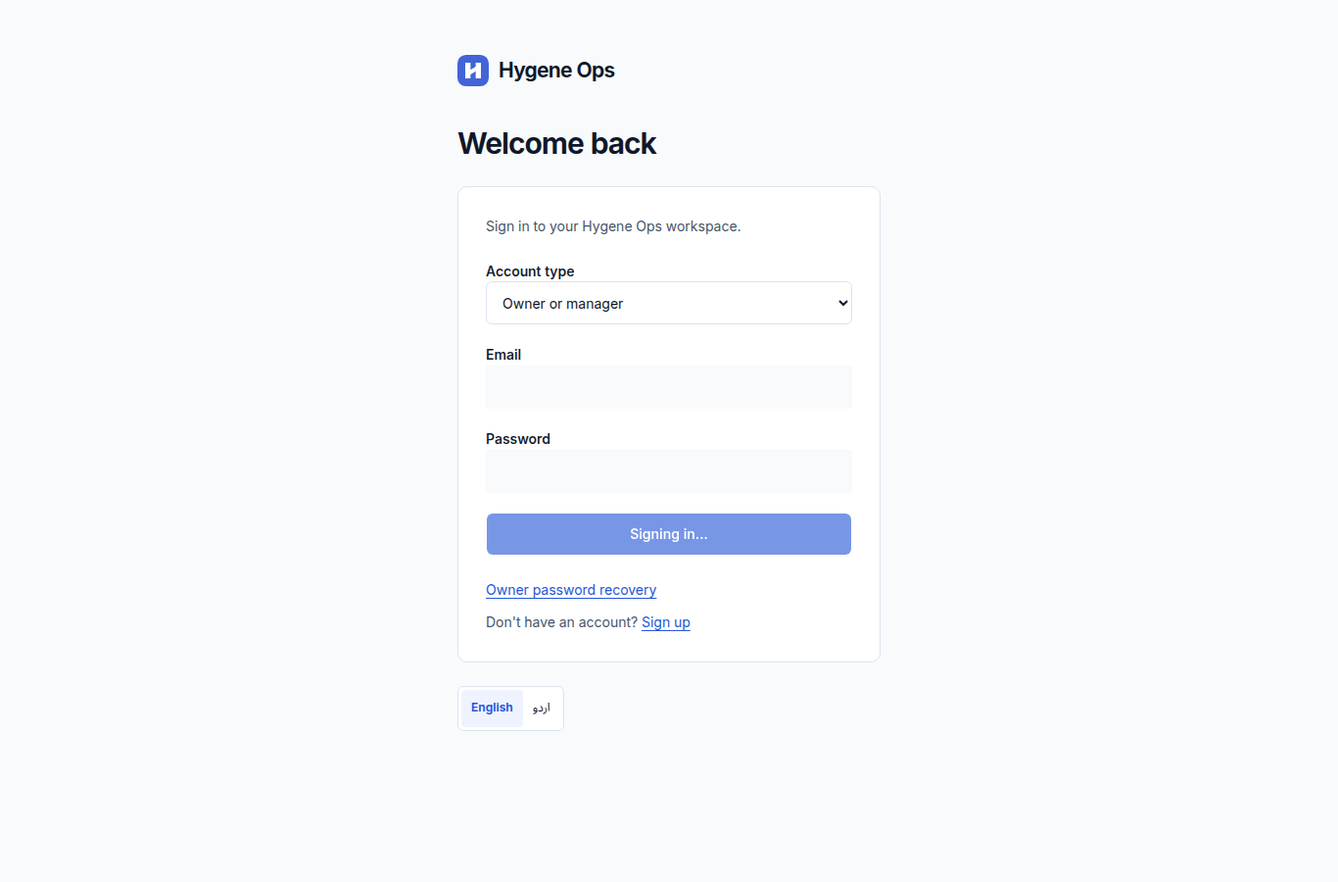
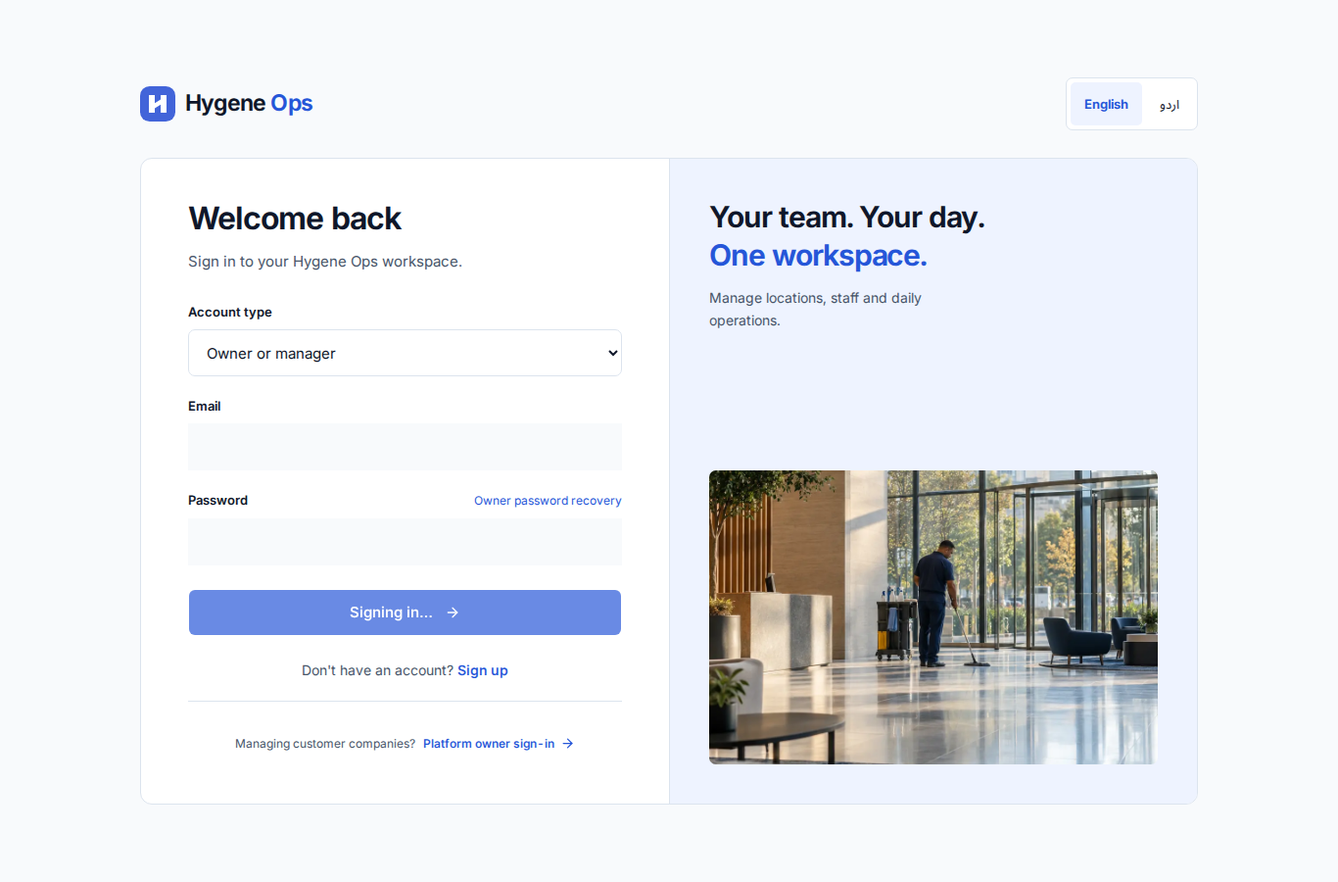
style(auth): polish company login and clarify platform sign-in

diff --git a/frontend/src/pages/Login/login.css b/frontend/src/pages/Login/login.css
@@ -1,0 +1,73 @@
+/* Company sign-in only. Other AuthShell journeys keep their existing layout. */
+.workspace.v5-auth-page.v5-auth-split { display:flex; align-items:center; min-height:100dvh; padding:32px; }
+.v5-auth-split .v5-auth { max-width:1080px; padding:0; }
+.v5-auth-split .v5-auth-split-header { display:flex; align-items:center; justify-content:space-between; gap:24px; margin-block-end:28px; }
+.v5-auth-split .v5-auth-brand,.v5-auth-split .v5-auth-language { margin:0; }
+.v5-auth-split .v5-auth-brand .hygene-mark { width:36px; height:36px; }
+.v5-auth-split .v5-auth-brand .hygene-wordmark { font-size:23px; }
+.v5-auth-split .v5-auth-brand .hygene-wordmark>span { color:var(--primary); }
+.v5-auth-split .language-choice { border:1px solid var(--border); border-radius:7px; padding:4px; gap:4px; }
+.v5-auth-split .language-choice>svg { display:none; }
+.v5-auth-split .language-choice button { min-height:44px; padding-inline:14px; border-radius:5px; font-size:13px; }
+.v5-auth-split .v5-auth-split-body { display:grid; grid-template-columns:1fr 1fr; min-width:0; overflow:hidden; border:1px solid var(--border); border-radius:12px; background:var(--card); }
+.v5-auth-split .v5-auth-split-form { min-width:0; padding:40px 48px; }
+.v5-auth-split .v5-auth h1 { margin-block-end:12px; font-size:32px; line-height:1.3; }
+.v5-auth-split .v5-auth-panel { border:0; border-radius:0; padding:0; background:transparent; }
+.v5-auth-split .v5-auth-description { margin-block-end:28px; font-size:15px; }
+.v5-auth-split .v5-auth-panel form { gap:20px; }
+.v5-auth-split .v5-auth-panel label { margin-block-end:8px; font-size:13px; font-weight:600; }
+.v5-auth-split .v5-auth-panel :is(input,select) { min-height:48px; padding:12px 14px; border-radius:7px; font-size:15px; color:var(--foreground); background:var(--card); caret-color:var(--primary); }
+.v5-auth-split .v5-auth-panel input::placeholder { color:var(--muted-foreground); opacity:1; }
+.v5-auth-split .v5-auth-panel [aria-invalid="true"] { border-color:var(--danger-ink); }
+.v5-auth-split .v5-auth-panel input:-webkit-autofill { -webkit-text-fill-color:var(--foreground); -webkit-box-shadow:0 0 0 1000px var(--accent) inset; }
+.v5-auth-split .login-password-label { display:flex; align-items:baseline; justify-content:space-between; gap:8px 16px; flex-wrap:wrap; margin-block-end:8px; }
+.v5-auth-split .login-password-label label { margin:0; }
+.v5-auth-split .login-password-label a { color:var(--primary); font-size:12px; text-decoration:none; text-underline-offset:3px; }
+.v5-auth-split .login-password-control { position:relative; }
+.v5-auth-split .login-password-control input { padding-inline-end:52px; }
+.v5-auth-split .login-password-toggle { position:absolute; inset-inline-end:3px; inset-block-start:2px; width:44px; height:44px; padding:0; color:var(--muted-foreground); border-radius:5px; }
+.v5-auth-split .v5-auth-panel button[type="submit"] { justify-content:center; gap:12px; min-height:48px; margin-block-start:4px; font-size:15px; }
+.v5-auth-split .login-error { display:flex; align-items:flex-start; gap:10px; padding:12px 14px; background:var(--danger-fill); border:1px solid var(--danger-ink); border-radius:7px; }
+.v5-auth-split .login-error>svg { flex-shrink:0; margin-block-start:2px; }
+.v5-auth-split .login-error p { margin:0; }
+.v5-auth-split .v5-auth-panel form>div>p[role="alert"] { margin-block-start:8px; }
+.v5-auth-split .v5-auth-footer { display:grid; gap:20px; margin-block-start:24px; text-align:center; }
+.v5-auth-split .v5-auth-footer a { font-weight:550; text-decoration:none; }
+.v5-auth-split .login-platform-link { display:flex; justify-content:center; align-items:center; flex-wrap:wrap; gap:4px 8px; padding-block-start:20px; border-block-start:1px solid var(--border); font-size:12px; }
+.v5-auth-split .login-platform-link a { display:inline-flex; align-items:center; gap:6px; min-height:44px; }
+.v5-auth-split .login-intro { display:flex; flex-direction:column; justify-content:space-between; gap:28px; min-width:0; padding:40px; background:var(--accent); border-inline-start:1px solid var(--border); }
+.v5-auth-split .login-intro h2 { margin:0; font-size:30px; line-height:1.3; letter-spacing:-.035em; font-weight:650; text-wrap:balance; }
+.v5-auth-split .login-intro h2 span { color:var(--primary); }
+.v5-auth-split .login-intro p { max-width:32ch; margin-block-start:12px; color:var(--muted-foreground); font-size:14px; line-height:1.65; }
+.v5-auth-split .login-intro img { display:block; width:100%; height:300px; min-height:240px; object-fit:cover; object-position:center 58%; border-radius:7px; }
+.v5-auth-split :focus-visible { outline:2px solid var(--primary); outline-offset:3px; }
+.v5-auth-split ::selection { background:var(--primary); color:var(--primary-foreground); }
+[dir="rtl"] .v5-auth-split :is(button[type="submit"],.login-platform-link a)>svg { transform:rotate(180deg); }
+@media(hover:hover) {
+ .v5-auth-split :is(.login-password-label,.v5-auth-footer) a:hover { text-decoration:underline; }
+}
+@media(max-width:1000px) {
+ .v5-auth-split .v5-auth-split-form { padding:36px 32px; }
+ .v5-auth-split .login-intro { padding:36px 28px; }
+ .v5-auth-split .login-intro h2 { font-size:27px; }
+}
+@media(max-width:800px) {
+ .workspace.v5-auth-page.v5-auth-split { padding:28px 24px; }
+ .v5-auth-split .v5-auth { max-width:480px; }
+ .v5-auth-split .v5-auth-split-body { grid-template-columns:minmax(0,1fr); }
+ .v5-auth-split .login-intro { display:none; }
+}
+@media(max-width:480px) {
+ .workspace.v5-auth-page.v5-auth-split { padding:24px 16px; align-items:flex-start; }
+ .v5-auth-split .v5-auth-split-header { gap:12px; margin-block-end:28px; }
+ .v5-auth-split .v5-auth-brand .hygene-mark { width:32px; height:32px; }
+ .v5-auth-split .v5-auth-brand .hygene-wordmark { font-size:20px; }
+ .v5-auth-split .language-choice { padding:2px; gap:0; }
+ .v5-auth-split .language-choice button { min-height:44px; padding-inline:10px; font-size:12px; }
+ .v5-auth-split .v5-auth-split-form { padding:28px 24px; }
+ .v5-auth-split .v5-auth h1 { font-size:28px; }
+ .v5-auth-split .v5-auth-description { font-size:14px; }
+ .v5-auth-split .v5-auth-panel :is(input,select) { font-size:16px; }
+ .v5-auth-split .login-password-label a { min-height:44px; display:inline-flex; align-items:center; }
+ .v5-auth-split .login-platform-link { font-size:13px; }
+}

diff --git a/frontend/src/pages/Login/LoginPage.tsx b/frontend/src/pages/Login/LoginPage.tsx
@@ -7,28 +7,34 @@ import {useLanguage} from '@/i18n/context';
 import AuthShell from '@/components/common/AuthShell';
 import {Button} from '@/components/ui/button';
 import {Input} from '@/components/ui/input';
+import {AlertCircle,ArrowRight,Eye,EyeOff} from 'lucide-react';
+import cleaningTeam from '@/assets/auth-cleaning-team.webp';
+import './login.css';
 
 export default function Login() {
  const {t}=useLanguage(),location=useLocation();
  const {register,handleSubmit,reset,formState:{errors}}=useForm<LoginForm>({defaultValues:{role:'Manager'}});
- const [error,setError]=useState('');const login=useLogin();
+ const [error,setError]=useState(''),[showPassword,setShowPassword]=useState(false);const login=useLogin();
  function submit(data:LoginForm){
   setError('');login.mutate(data,{onSuccess:()=>reset(),onError:(failure:unknown)=>{
    const status=(failure as {response?:{status?:number}}).response?.status;
    setError(status===400||status===401?'Email or password is incorrect.':status===429?'Too many sign-in attempts. Try again shortly.':status===403?'Sign-in is unavailable for this account. Contact your company owner.':'Sign-in could not finish. Check your connection and try again.');
   }});
  }
- return <AuthShell title={t('Welcome back')} subtitle={t('Sign in to your Hygene Ops workspace.')} footer={<>
-  <Link to="/recover-owner-account">{t('Owner password recovery')}</Link>
+ return <AuthShell title={t('Welcome back')} subtitle={t('Sign in to your Hygene Ops workspace.')} aside={<aside className="login-intro" aria-label={t('About Hygene Ops')}>
+  <div><h2>{t('Your team. Your day.')}<br/><span>{t('One workspace.')}</span></h2><p>{t('Manage locations, staff and daily operations.')}</p></div>
+  <img src={cleaningTeam} width={1024} height={1536} alt="" decoding="async"/>
+ </aside>} footer={<>
   <p>{t("Don't have an account?")} <Link to="/signup">{t('Sign up')}</Link></p>
+  <p className="login-platform-link"><span>{t('Managing customer companies?')}</span><Link to="/platform/login">{t('Platform owner sign-in')}<ArrowRight size={15} aria-hidden="true"/></Link></p>
  </>}>
   {location.state?.securityCompleted&&<p role="status">{t('Security details updated. Sign in again to continue.')}</p>}
   <form onSubmit={handleSubmit(submit)} aria-busy={login.isPending}>
    <div><label htmlFor="role">{t('Account type')}</label><select id="role" {...register('role',{required:'Please select a role'})} disabled={login.isPending}><option value="Manager">{t('Owner or manager')}</option><option value="Staff">{t('Staff')}</option></select></div>
    <div><label htmlFor="email">{t('Email')}</label><Input id="email" type="email" dir="ltr" autoComplete="email" placeholder="you@example.com" aria-invalid={!!errors.email} aria-describedby={errors.email?'email-error':undefined} {...register('email',{required:'Email is required'})}/>{errors.email&&<p id="email-error" role="alert">{t(errors.email.message??'Email is required')}</p>}</div>
-   <div><label htmlFor="password">{t('Password')}</label><Input id="password" type="password" dir="ltr" autoComplete="current-password" aria-invalid={!!errors.password} aria-describedby={errors.password?'password-error':undefined} {...register('password',{required:'Password is required'})}/>{errors.password&&<p id="password-error" role="alert">{t(errors.password.message??'Password is required')}</p>}</div>
-   {error&&<p role="alert">{t(error)}</p>}
-   <Button type="submit" disabled={login.isPending}>{t(login.isPending?'Signing in…':'Sign in')}</Button>
+   <div><div className="login-password-label"><label htmlFor="password">{t('Password')}</label><Link to="/recover-owner-account">{t('Owner password recovery')}</Link></div><div className="login-password-control" dir="ltr"><Input id="password" type={showPassword?'text':'password'} dir="ltr" autoComplete="current-password" aria-invalid={!!errors.password} aria-describedby={errors.password?'password-error':undefined} {...register('password',{required:'Password is required'})}/><Button type="button" variant="ghost" className="login-password-toggle" aria-label={t(showPassword?'Hide password':'Show password')} aria-pressed={showPassword} onClick={()=>setShowPassword(!showPassword)}>{showPassword?<EyeOff size={18} aria-hidden="true"/>:<Eye size={18} aria-hidden="true"/>}</Button></div>{errors.password&&<p id="password-error" role="alert">{t(errors.password.message??'Password is required')}</p>}</div>
+   {error&&<div className="login-error" role="alert"><AlertCircle size={18} aria-hidden="true"/><p>{t(error)}</p></div>}
+   <Button type="submit" disabled={login.isPending}>{t(login.isPending?'Signing in…':'Sign in')}<ArrowRight size={17} aria-hidden="true"/></Button>
   </form>
  </AuthShell>;
 }

diff --git a/frontend/e2e/customer-auth-v5.spec.ts b/frontend/e2e/customer-auth-v5.spec.ts
@@ -18,7 +18,11 @@ test('V5 customer auth pages render at matching desktop/phone English/Urdu sizes
    await page.goto(path);await expect(page.locator('.v5-auth h1')).toBeVisible();await page.evaluate(()=>document.fonts.ready);
    await page.screenshot({path:join(out,`app-${name}-${width}-${lang}.png`),fullPage:true});
    const geometry=await page.evaluate(()=>{const brand=document.querySelector('.v5-auth-brand')!.getBoundingClientRect(),title=document.querySelector('.v5-auth h1')!.getBoundingClientRect();return {brandToTitle:title.y-brand.bottom};});
-   expect(geometry.brandToTitle).toBeGreaterThanOrEqual(39);expect(geometry.brandToTitle).toBeLessThanOrEqual(41);
+   if(name==='login'){
+    expect(geometry.brandToTitle).toBeGreaterThan(0);
+    await expect(page.locator('.login-intro')).toBeVisible({visible:width>800});
+    await expect(page.getByRole('link',{name:lang==='ur'?'پلیٹ فارم مالک کا داخلہ':'Platform owner sign-in',exact:true})).toHaveAttribute('href','/platform/login');
+   }else{expect(geometry.brandToTitle).toBeGreaterThanOrEqual(39);expect(geometry.brandToTitle).toBeLessThanOrEqual(41);}
    const overflow=await page.evaluate(()=>document.documentElement.scrollWidth>innerWidth+1);results.push({name,path,prototype,width,lang,geometry,overflow,errors:[...errors]});expect(overflow).toBe(false);expect(errors).toEqual([]);errors.length=0;
    await expect(page.locator('.language-choice')).toHaveCount(1);await expect(page.locator('.auth-preview')).toHaveCount(0);
    const reference=await context.newPage();await reference.goto('file://'+join(root,`design/v5/${prototype}.html`)+`?lang=${lang}${name.endsWith('missing')?'&link=expired':''}`);await reference.evaluate(()=>document.fonts.ready);await reference.screenshot({path:join(out,`v5-${name}-${width}-${lang}.png`),fullPage:true});await reference.close();
@@ -66,6 +70,8 @@ test('actual owner recovery explains unavailable delivery without claiming a sen
 });
 test('real rejected sign-in remains on the form and permits a corrected retry',async({page})=>{
  await page.setViewportSize({width:1366,height:900});await page.goto('/login');await page.getByLabel('Email',{exact:true}).fill('no-account@example.invalid');await page.getByLabel('Password',{exact:true}).fill(randomBytes(20).toString('hex'));
+ await page.getByRole('button',{name:'Show password',exact:true}).click();await expect(page.getByLabel('Password',{exact:true})).toHaveAttribute('type','text');
+ await page.getByRole('button',{name:'Hide password',exact:true}).click();await expect(page.getByLabel('Password',{exact:true})).toHaveAttribute('type','password');
  await page.getByRole('button',{name:'Sign in',exact:true}).click();await expect(page.getByRole('alert')).toContainText('Email or password is incorrect.');await expect(page).toHaveURL(/login/);
  await page.getByLabel('Password',{exact:true}).clear();await page.screenshot({path:join(out,'app-login-denied-1366-en.png'),fullPage:true});
 });

diff --git a/frontend/src/pages/Login/LoginPage.test.tsx b/frontend/src/pages/Login/LoginPage.test.tsx
@@ -47,3 +47,27 @@ it('keeps registration session-delivery failure unauthenticated with an accurate
 it('translates registration fields and validation using the shared public shell',async()=>{
  mount(<SignUp/>,{language:'ur',path:'/signup'});expect(screen.getByRole('heading',{name:'اپنا ورک اسپیس بنائیں'})).toBeInTheDocument();fireEvent.click(screen.getByRole('button',{name:'اکاؤنٹ بنائیں اور پلان چنیں'}));await screen.findByText('نام ضروری ہے');expect(screen.getByLabelText('پورا نام')).toHaveAttribute('aria-invalid','true');expect(screen.getByRole('link',{name:'Hygene Ops میں سائن ان کریں'})).toHaveAttribute('href','/login');expect(screen.getAllByRole('group',{name:'زبان'})).toHaveLength(1);
 });
+
+it('reveals and hides the existing password without submitting or changing credentials',()=>{
+ mount(<Login/>);const password=screen.getByLabelText('Password');
+ fireEvent.change(password,{target:{value:'Synthetic test password'}});
+ expect(password).toHaveAttribute('type','password');
+ fireEvent.click(screen.getByRole('button',{name:'Show password'}));
+ expect(password).toHaveAttribute('type','text');expect(password).toHaveValue('Synthetic test password');
+ expect(screen.getByRole('button',{name:'Hide password'})).toHaveAttribute('aria-pressed','true');
+ fireEvent.click(screen.getByRole('button',{name:'Hide password'}));
+ expect(password).toHaveAttribute('type','password');expect(api.post).not.toHaveBeenCalled();
+ expect(screen.getByRole('link',{name:'Platform owner sign-in'})).toHaveAttribute('href','/platform/login');
+ expect(screen.getByRole('link',{name:'Owner password recovery'})).toHaveAttribute('href','/recover-owner-account');
+ expect(screen.getAllByRole('group',{name:'Language'})).toHaveLength(1);
+});
+
+it('translates the split login, platform link and password visibility for Urdu',()=>{
+ mount(<Login/>,{language:'ur'});
+ expect(screen.getByRole('heading',{name:'خوش آمدید'})).toBeInTheDocument();
+ expect(screen.getByRole('link',{name:'پلیٹ فارم مالک کا داخلہ'})).toHaveAttribute('href','/platform/login');
+ fireEvent.click(screen.getByRole('button',{name:'پاس ورڈ دکھائیں'}));
+ expect(screen.getByLabelText('پاس ورڈ')).toHaveAttribute('type','text');
+ expect(screen.getByRole('button',{name:'پاس ورڈ چھپائیں'})).toBeInTheDocument();
+ expect(document.documentElement.dir).toBe('rtl');
+});

diff --git a/frontend/src/components/common/AuthShell.tsx b/frontend/src/components/common/AuthShell.tsx
@@ -8,22 +8,25 @@ import '@/workspace-refresh.css';
 import './auth.css';
 
 // The approved gallery's public journeys share this centered real form surface.
-export default function AuthShell({title,subtitle,children,footer}:{
- title:string;subtitle:string;children:ReactNode;footer:ReactNode;
+export default function AuthShell({title,subtitle,children,footer,aside}:{
+ title:string;subtitle:string;children:ReactNode;footer:ReactNode;aside?:ReactNode;
 }) {
  const {t}=useLanguage();
  useEffect(()=>{document.title=`${title} | Hygene Ops`;},[title]);
- return <div className="workspace v5-auth-page">
+ const brand=<Link to="/login" className="v5-auth-brand" aria-label={t('Hygene Ops sign in')}><BrandLogo/></Link>;
+ const language=<div className="v5-auth-language"><LanguageChoice/></div>;
+ const content=<><h1>{title}</h1><section className="v5-auth-panel" aria-label={title}>
+  <p className="v5-auth-description">{subtitle}</p>
+  {children}
+  <div className="v5-auth-footer">{footer}</div>
+ </section></>;
+ return <div className={`workspace v5-auth-page${aside?' v5-auth-split':''}`}>
   <a className="v5-auth-skip" href="#auth-content">{t('Skip to content')}</a>
   <main className="v5-auth" id="auth-content" tabIndex={-1}>
-   <Link to="/login" className="v5-auth-brand" aria-label={t('Hygene Ops sign in')}><BrandLogo/></Link>
-   <h1>{title}</h1>
-   <section className="v5-auth-panel" aria-label={title}>
-    <p className="v5-auth-description">{subtitle}</p>
-    {children}
-    <div className="v5-auth-footer">{footer}</div>
-   </section>
-   <div className="v5-auth-language"><LanguageChoice/></div>
+   {aside?<>
+    <header className="v5-auth-split-header">{brand}{language}</header>
+    <div className="v5-auth-split-body"><div className="v5-auth-split-form">{content}</div>{aside}</div>
+   </>:<>{brand}{content}{language}</>}
   </main>
  </div>;
 }

diff --git a/frontend/src/i18n/accountTranslations.ts b/frontend/src/i18n/accountTranslations.ts
@@ -1,4 +1,12 @@
 export const accountUrdu: Record<string, string> = {
+ 'About Hygene Ops':'Hygene Ops کے بارے میں',
+ 'Your team. Your day.':'آپ کی ٹیم۔ آپ کا دن۔',
+ 'One workspace.':'ایک ورک اسپیس۔',
+ 'Manage locations, staff and daily operations.':'مقامات، عملے اور روزمرہ کے کاموں کا انتظام کریں۔',
+ 'Managing customer companies?':'کسٹمر کمپنیوں کا انتظام کرنا ہے؟',
+ 'Platform owner sign-in':'پلیٹ فارم مالک کا داخلہ',
+ 'Show password':'پاس ورڈ دکھائیں',
+ 'Hide password':'پاس ورڈ چھپائیں',
  'Hygene Ops sign in': 'Hygene Ops میں سائن ان کریں',
  'Skip to content': 'اصل مواد پر جائیں',
  'Welcome back': 'خوش آمدید',

diff --git a/docs/implementation/LOGIN_UI_POLISH.md b/docs/implementation/LOGIN_UI_POLISH.md
@@ -1,0 +1,67 @@
+# Company login polish — 31 October 2026
+
+The user requests improving the company login shown in their screenshot. Work
+is limited to presentation and form usability, preserving approved blue/white
+tokens and existing owner/manager/staff authentication requests and destinations.
+This is a single-session UI refinement, not a new numbered feature specification.
+
+## Changes
+
+- Optional `aside` presentation slot in the existing AuthShell. Only company
+  Login supplies it; signup, recovery and operator forms retain the default shell.
+- A balanced desktop form and illustrated side panel using the existing bundled
+  `auth-cleaning-team.webp`, with the form prioritized on phones/tablets. The
+  image is decorative; no fabricated customer or workforce statistics are shown.
+- Clear brand/language header, consistent fields and primary action, visible
+  focus, structured error feedback and English/Urdu/RTL labels.
+- Password visibility uses a type=button toggle, preserves the current value and
+  never submits the form or stores credentials. Existing API errors and pending
+  submission behavior remain authoritative.
+- Password recovery remains available; a separate platform-owner sign-in link
+  explains the correct destination for product-owner credentials. The screenshot
+  showed a platform identity entered into the company login. No account or
+  permission is changed to make that identity work as a company administrator.
+
+## Verification
+
+59 focused login/operator/account component tests passed; full frontend407 React
+and64 Node tests passed. Both company account types still use their original
+endpoints and existing shared default AuthShell flows remain covered. Two added
+unit cases check password visibility without submission, preserved values,
+platform/recovery destinations, one language selector and Urdu behavior.
+
+Commands: direct `vitest run --maxWorkers=1` (focused and full); `npm run test:unit`.
+Heavy checks ran sequentially at nice15 with one worker. Touched ESLint and
+`VITE_LOCAL_PLATFORM_LOGIN=true nice -n 15 npm run build` passed. The Impeccable
+mechanical scan of LoginPage, login.css and AuthShell returned no findings.
+
+The existing isolated browser harness passed three real SQL/API/Chromium cases:
+rejected sign-in and visibility toggle, actual staff login/handoff/logout, and
+pending owner sign-in with duplicate submission disabled and dashboard arrival.
+Command: `HYGENE_E2E_DATABASE_URL=postgresql://shumail@127.0.0.1:56443/priv_e2e_test nice -n 15 node frontend/e2e/run.mjs customer-auth-v5.spec.ts --grep 'real rejected|actual staff|actual sign-in pending'`.
+This also passed backend/browser/frontend TypeScript and an isolated frontend
+build. Zero generated child DBs remained; the owned test cluster was stopped.
+The full original visual journey case was updated for the explicitly changed
+login geometry but was not run in this focused check.
+
+Actual local frontend was rebuilt/restarted. Eight desktop/tablet/phone/small-phone
+observations at1366/768/390/320x900 EN/UR passed: no horizontal overflow or browser
+errors, single language control, correct aside visibility, password toggle,
+required-field feedback and keyboard navigation to platform sign-in. Four actual
+API401denial states were captured after emptying credentials. Twelve captures and
+results remain outside Git at `~/.local/share/hygene-ops/local-development/login-ui-polish-20261031/`.
+Inspected against existing approved blue/white tokens and current V5 composition;
+the user-requested desktop split is intentional, with default shared auth layouts
+preserved. Only two updated synthetic/masked browser screenshots are committed.
+
+## Files and scope
+
+`frontend/src/pages/Login/{LoginPage.tsx,login.css,LoginPage.test.tsx}`;
+`frontend/src/components/common/AuthShell.tsx`;
+`frontend/src/i18n/accountTranslations.ts`; existing customer-auth browser tests.
+
+Worktree `/home/shumail/.local/share/hygene-ops/v5-import-20261031`, branch
+`ui/company-login-polish`, based on company overview `1aa4cce`/draft113. Original
+root changes, the untracked frozen design directory and other worktrees remain
+preserved. No backend, schema, billing, platform authorization or original V5
+specification status changes. No merge or deployment.

diff --git a/specs/PROGRESS.md b/specs/PROGRESS.md
@@ -2,6 +2,13 @@
 
 Source of truth for execution; latest user authorization supersedes old pending labels. Approved v5 preserved.
 
+**Latest login refinement — 2026-10-31:** `/login` now has a responsive blue/white
+split layout, password visibility and separate platform-owner sign-in link.
+Default shared auth layouts and authentication payloads remain unchanged.
+59focused,407React+64Node, lint/build,3isolated actual browser cases and8local
+EN/UR visual observations passed. Details: [LOGIN_UI_POLISH.md](../docs/implementation/LOGIN_UI_POLISH.md).
+Branch `ui/company-login-polish`; original spec statuses unchanged.
+
 **Latest focused refinement — 2026-10-31:** company list/details now expose real
 active manager/staff/location counts (owners excluded from managers). Inquiries,
 Service diagnostics and Administrative audit are temporarily hidden by navigation
@@ -314,3 +321,5 @@ PLATFORM_OIDCinputs and loads no root secrets.23other worktrees/799dirtypaths
 - **2026-10-31 — Spec43 complete locally:** separate provisioned local platform-owner email/password, private bcrypt credential store, opaque platform cookie, strict loopback/development/origin/database gates, throttling/expiry/logout and existing metadata pages wired. Full1490backend/7existing skips,64Node+399React,1isolated browser plus actual provisioned local owner login pass. Credentials stay outside Git. Original six V5 gates remain unresolved; production auth/MFA unchanged.
 
 - **2026-10-31 — Focused platform refinement complete:** user-authorized active manager/staff/location aggregates in company register and account overview; owners excluded. Hide inquiry/diagnostics/audit navigation and redirect old URLs.55backend/72platform UI focused;1491full backend+7existing skips;64Node+405React;1isolated PostgreSQL/API/browser; touched lint/both builds;8actual EN/UR desktop/phone captures with no browser errors/overflow. Local services updated. See PLATFORM_COMPANY_OVERVIEW.md. No new numbered spec, migrations, original status changes, merge or deployment.
+
+- **2026-10-31 — Company login polish complete locally:** user-requested responsive desktop/photo and mobile form, password visibility, focused error styling and separate platform-owner sign-in link.59focused,407React+64Node, lint/build,3isolated real browser and8local EN/UR observations passed. No new specification or original status change; LOGIN_UI_POLISH.md records scope and verification.

diff --git a/docs/implementation/SESSION_HANDOFF.md b/docs/implementation/SESSION_HANDOFF.md
@@ -1,3 +1,23 @@
+# Latest refinement — Company login UI — 2026-10-31
+
+User requests polishing the pictured `/login` screen. Complete locally on
+`ui/company-login-polish`, based1aa4cce/draft113, in the preserved feature worktree.
+Read [LOGIN_UI_POLISH.md](LOGIN_UI_POLISH.md). Optional AuthShell aside is used
+only by company Login: balanced desktop form with existing cleaning image,
+focused mobile form, header language selector, password visibility, structured
+errors, recovery and explicit separate platform-owner sign-in link. The email
+shown by the user belongs to the platform identity and uses `/platform/login`;
+no company authentication or account permissions were altered.
+
+59focused auth/account,407React+64Node, touched lint, frontend build and strict
+browser/backend TypeScript passed.3real isolated SQL/API/browser cases cover
+rejection, staff login/handoff/logout and pending owner login/dashboard arrival.
+8actual local EN/UR observations at1366/768/390/320,12empty/scrubbed screenshots,
+4real API401states, zero overflow/browser errors and zero detector findings.
+Local frontend rebuilt/restarted; backend not restarted or changed. Test child
+DB cleaned and owned cluster stopped. Single-session refinement, no new numbered
+spec, original V5 status changes, merge or deployment. Heavy checks sequential.
+
 # Latest refinement — Company counts and focused platform UI — 2026-10-31
 
 User requests real per-company manager/staff/location counts, hiding Inquiries,
